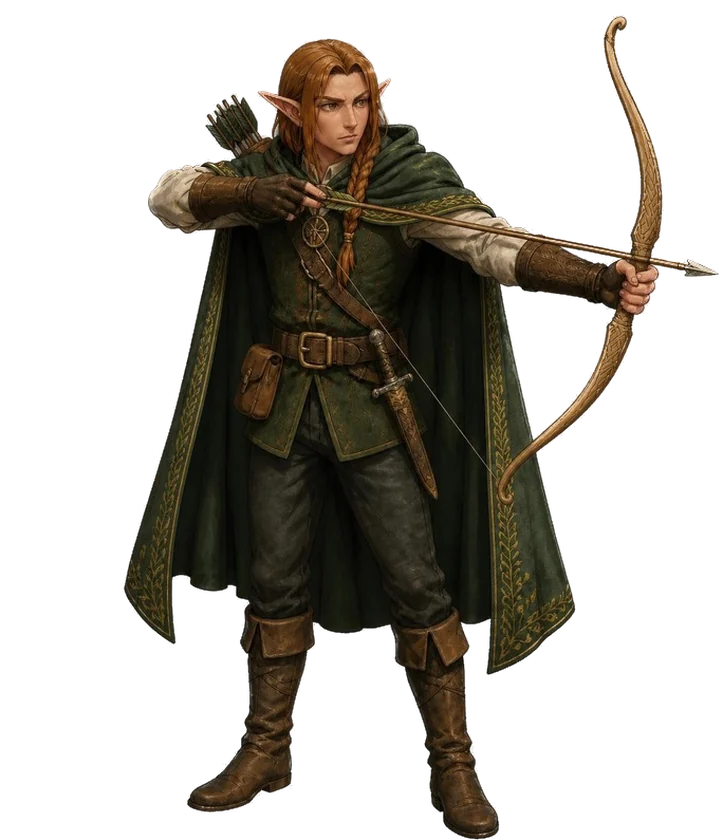
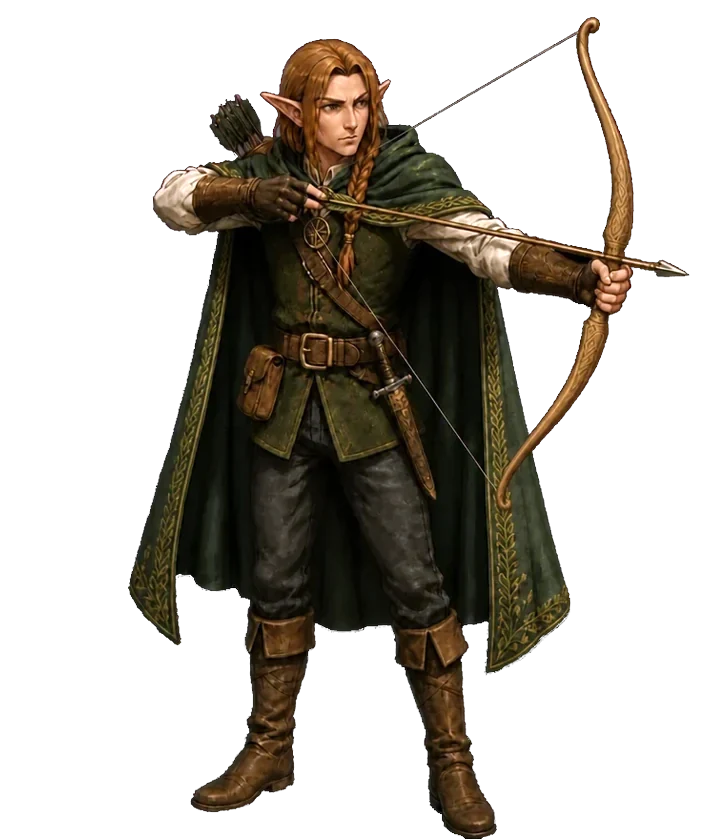
Adiciona animação para o arqueiro, ajusta a súcubo e corrige o paladino

diff --git a/src/styles/battle.css b/src/styles/battle.css
@@ -588,6 +588,18 @@
     --pose-height: 100.95%;
 }
 
+/* Arqueiro: figura de 723 x 840; poses de 731 x 1109, a partir de (-4, -269). */
+.bt-posed--arqueiro {
+    aspect-ratio: 723 / 840;
+    --pose-left: -0.55%;
+    --pose-top: -32.02%;
+    --pose-width: 101.11%;
+    --pose-height: 132.02%;
+    /* A mão do arco no quadro do disparo: de onde a flecha sai (FxLayer). */
+    --fx-hand-x: 0.873;
+    --fx-hand-y: 0.239;
+}
+
 /*
  * Golpe corpo a corpo (bt-lunge, 1,1 s): no recuo ela ergue a arma (windup)
  * e, no avanço, desce o golpe (strike), que acerta aos 63%, quando o dano
@@ -636,6 +648,100 @@
 .bt-unit--projectile .bt-posed:has(.bt-posed__pose--bolt) .bt-posed__pose--cast,
 .bt-unit--area .bt-posed:has(.bt-posed__pose--area) .bt-posed__pose--cast {
     animation: none;
+}
+
+/*
+ * Quadros extras, para quem tem uma sequência mais longa (o Arqueiro):
+ * - bolt-end: depois de lançar o projétil, o gesto termina (o lançamento fica
+ *   dos 42% aos 62% e este quadro dos 62% aos 84%);
+ * - area-start e area-charge: em área, no lugar da pose de juntar (charge), a
+ *   área tem dois quadros próprios (9–25% e 25–42%);
+ * - area-end: como o bolt-end, depois da área.
+ */
+.bt-unit--projectile .bt-posed:has(.bt-posed__pose--bolt-end) .bt-posed__pose--bolt,
+.bt-unit--area .bt-posed:has(.bt-posed__pose--area-end) .bt-posed__pose--area {
+    animation: bt-pose-release-short 0.75s linear;
+}
+
+.bt-unit--projectile .bt-posed__pose--bolt-end,
+.bt-unit--area .bt-posed__pose--area-end {
+    animation: bt-pose-recover 0.75s linear;
+}
+
+.bt-unit--area .bt-posed:has(.bt-posed__pose--area-charge) .bt-posed__pose--charge {
+    animation: none;
+}
+
+.bt-unit--area .bt-posed__pose--area-charge {
+    animation: bt-pose-charge 0.75s linear;
+}
+
+.bt-unit--area .bt-posed:has(.bt-posed__pose--area-start) .bt-posed__pose--area-charge {
+    animation: bt-pose-step-two 0.75s linear;
+}
+
+.bt-unit--area .bt-posed__pose--area-start {
+    animation: bt-pose-step-one 0.75s linear;
+}
+
+@keyframes bt-pose-release-short {
+    0%,
+    38% {
+        opacity: 0;
+    }
+    42%,
+    60% {
+        opacity: 1;
+    }
+    64%,
+    100% {
+        opacity: 0;
+    }
+}
+
+@keyframes bt-pose-recover {
+    0%,
+    60% {
+        opacity: 0;
+    }
+    64%,
+    84% {
+        opacity: 1;
+    }
+    90%,
+    100% {
+        opacity: 0;
+    }
+}
+
+@keyframes bt-pose-step-one {
+    0%,
+    6% {
+        opacity: 0;
+    }
+    9%,
+    23% {
+        opacity: 1;
+    }
+    27%,
+    100% {
+        opacity: 0;
+    }
+}
+
+@keyframes bt-pose-step-two {
+    0%,
+    23% {
+        opacity: 0;
+    }
+    27%,
+    38% {
+        opacity: 1;
+    }
+    42%,
+    100% {
+        opacity: 0;
+    }
 }
 
 @keyframes bt-pose-melee-still {
@@ -973,6 +1079,27 @@
 }
 
 /*
+ * Aliado caído que pode ser escolhido (Ressurreição, Erguer Esqueleto): a
+ * figura volta como um fantasma acinzentado, para dar onde clicar, e ganha
+ * cor ao passar o mouse.
+ */
+.bt-unit.bt-unit--down.bt-unit--target .bt-unit__sprite {
+    opacity: 0.45;
+    filter: grayscale(1) brightness(1.15) drop-shadow(0 0 6px var(--bt-good));
+    animation: bt-beckon 1.3s ease-in-out infinite;
+}
+
+.bt-unit.bt-unit--down.bt-unit--target:hover .bt-unit__sprite,
+.bt-unit.bt-unit--down.bt-unit--target:focus-visible .bt-unit__sprite {
+    opacity: 0.85;
+    filter: grayscale(0.3) drop-shadow(0 0 3px #fff) drop-shadow(0 0 12px var(--bt-gold-bright));
+}
+
+.bt-unit--down.bt-unit--target .bt-unit__plate {
+    opacity: 1;
+}
+
+/*
  * Prévia no alvo: com uma habilidade escolhida, parar o mouse (ou o foco do
  * teclado) num alvo possível mostra em cima da placa quanto ela tira dele
  * (em vermelho) ou cura (em verde), já com a defesa e o escudo, e também o
@@ -1210,6 +1337,18 @@
 /* Magia, projétil e suporte: conjura no lugar, com um círculo no chão. */
 .bt-unit.bt-unit--casting .bt-unit__sprite {
     animation: bt-cast 0.75s ease-in-out;
+}
+
+/* O Arqueiro atira sem brilhar: só o leve impulso, sem o clarão da magia. */
+.bt-unit.bt-unit--casting .bt-unit__sprite.bt-posed--arqueiro {
+    animation-name: bt-cast-plain;
+}
+
+@keyframes bt-cast-plain {
+    30%,
+    62% {
+        transform: translateY(-1%);
+    }
 }
 
 .bt-unit--casting .bt-unit__stage::after {

diff --git a/src/types/battle.ts b/src/types/battle.ts
@@ -15,7 +15,7 @@ export interface Stats {
     critDamage: number;
 }
 
-/** 'corpse' é o cadáver de um aliado (unidade derrotada do próprio time que ainda não foi erguida): quem escolhe é a API. */
+/** 'corpse' é o cadáver de um aliado (unidade derrotada do próprio time que ainda não foi erguida): o jogador escolhe qual, como num alvo único. */
 export type TargetType = 'single-enemy' | 'all-enemies' | 'single-ally' | 'all-allies' | 'self' | 'corpse';
 
 export type StatusKind =
@@ -50,7 +50,9 @@ export type StatusKind =
     /** Torpor: quando a duração acaba, a unidade adormece. */
     | 'drowsy'
     /** Maldição de quem aplicou (`sourceId`): dano por turno, e os golpes de alvo único dela não miram nele enquanto houver outro alvo. */
-    | 'curse';
+    | 'curse'
+    /** Contagem do sono, na própria Súcubo: `turns` é quantas vezes dela faltam; no começo da vez em que ela chega ao fim, todos os inimigos adormecem. Nada a remove. */
+    | 'countdown';
 
 export interface StatusEffect {
     kind: StatusKind;
@@ -146,6 +148,8 @@ export type PassiveEffect =
     | { type: 'stealth_each_turn' }
     /** No começo da batalha (só no turno 1), aplica os efeitos em todos os inimigos. */
     | { type: 'battle_start'; target: 'all-enemies'; effects: SkillEffect[] }
+    /** Começa a batalha com uma contagem de `turns` na unidade; no começo da vez dela em que a contagem acaba, aplica os efeitos em todos os inimigos. */
+    | { type: 'countdown'; turns: number; target: 'all-enemies'; effects: SkillEffect[] }
     | { type: 'turn_start'; target: 'all-allies' | 'fastest-enemy' | 'lowest-ally'; effects: SkillEffect[] }
     /** Acumula cargas: cada efeito tirado de um inimigo soma `amount` ao dano dos golpes. */
     | { type: 'damage_per_dispel'; amount: number; max?: number }

diff --git a/src/components/battle/StatusBadges.tsx b/src/components/battle/StatusBadges.tsx
@@ -81,6 +81,14 @@ const ICONS: Partial<Record<StatusKind, ReactNode>> = {
             <path d='M6 16.5 L5 19.5 M12 19 L12 22 M18 16.5 L19 19.5' fill='none' strokeWidth={1.8} strokeLinecap='round' />
         </>
     ),
+    // Contagem do sono: uma ampulheta lilás.
+    countdown: (
+        <>
+            <path d='M6 2.5 L18 2.5 M6 21.5 L18 21.5' fill='none' strokeWidth={2.2} strokeLinecap='round' />
+            <path d='M7 3 C7 8 10.5 10 12 12 C13.5 10 17 8 17 3 Z M7 21 C7 16 10.5 14 12 12 C13.5 14 17 16 17 21 Z' fill='#cfc7e8' />
+            <path d='M9 20.5 C9.5 18 11 16.6 12 16 C13 16.6 14.5 18 15 20.5 Z' fill='#9db4ff' stroke='none' />
+        </>
+    ),
     // Maldição: um selo de chifres sobre um círculo roxo.
     curse: (
         <>
@@ -104,7 +112,7 @@ const ARROWS: Partial<Record<StatusKind, { stat: 'atk' | 'def' | 'speed'; up: bo
 };
 
 /** Status que ajudam quem os carrega. Os outros atrapalham. */
-const HELPFUL: StatusKind[] = ['shield', 'atk_up', 'def_up', 'speed_up', 'passive_up', 'taunt', 'form', 'stealth', 'counter', 'guard'];
+const HELPFUL: StatusKind[] = ['shield', 'atk_up', 'def_up', 'speed_up', 'passive_up', 'taunt', 'form', 'stealth', 'counter', 'guard', 'countdown'];
 
 /**
  * Quanto um status de dano por turno vai causar na próxima vez. Num status

diff --git a/src/battle/fx.ts b/src/battle/fx.ts
@@ -62,14 +62,15 @@ export function skillFxOf(event: Extract<BattleEvent, { type: 'skill_used' | 'co
  * Uma passiva que age sozinha é animada como uma habilidade. A de começo de
  * vez: a cura em área como um feitiço, o golpe num inimigo como projétil ou
  * investida. A de começo de batalha (a nuvem de esporos do Guardião): como um
- * golpe em área no time inimigo. As outras passivas mudam um golpe que já
+ * golpe em área no time inimigo, assim como a contagem do sono da Súcubo
+ * quando chega ao fim. As outras passivas mudam um golpe que já
  * está sendo animado: para elas não há nada novo a desenhar, e a função
  * devolve null.
  */
 export function passiveFxOf(event: Extract<BattleEvent, { type: 'passive_triggered' }>, units: Map<string, BattleUnit>, id: number): SkillFx | null {
     const passive = findPassive(units.get(event.unitId), event.passiveId);
 
-    if (!passive || (passive.effect.type !== 'turn_start' && passive.effect.type !== 'battle_start') || event.targetIds.length === 0) {
+    if (!passive || (passive.effect.type !== 'turn_start' && passive.effect.type !== 'battle_start' && passive.effect.type !== 'countdown') || event.targetIds.length === 0) {
         return null;
     }
 

diff --git a/src/components/battle/artFiles.ts b/src/components/battle/artFiles.ts
@@ -13,7 +13,8 @@
  * código. Personagem sem arquivo aparece com o desenho antigo, de reserva.
  *
  * Poses de ação: além do <id>.webp, o personagem pode ter os desenhos
- * <id>-pose-<momento>.webp (windup, strike, charge, cast, bolt, area), trocados durante a
+ * <id>-pose-<momento>.webp (windup, strike, charge, cast, bolt, area e os quadros extras
+ * bolt-end, area-start, area-charge, area-end), trocados durante a
  * animação em battle.css. Ver getPoseFrames.
  */
 export type ArtKind = 'figure' | 'face' | 'card';
@@ -41,9 +42,9 @@ const RENAMED: Record<string, string> = {
     espinho: 'guardiao',
 };
 
-export type PoseName = 'windup' | 'strike' | 'charge' | 'cast' | 'bolt' | 'area';
+export type PoseName = 'windup' | 'strike' | 'charge' | 'cast' | 'bolt' | 'bolt-end' | 'area-start' | 'area-charge' | 'area' | 'area-end';
 
-const POSES: PoseName[] = ['windup', 'strike', 'charge', 'cast', 'bolt', 'area'];
+const POSES: PoseName[] = ['windup', 'strike', 'charge', 'cast', 'bolt', 'bolt-end', 'area-start', 'area-charge', 'area', 'area-end'];
 
 /**
  * Os desenhos de cada momento da ação (preparar e acertar o golpe; juntar,

diff --git a/src/pages/BattlePage.tsx b/src/pages/BattlePage.tsx
@@ -136,12 +136,13 @@ function BattleScreen({ battleId, opening, isReplay = false }: { battleId: strin
         hint = t('battle.waitingOpponent');
     } else if (!canAct || !selected) {
         hint = t('battle.resolving');
-    } else if (selected.requiresTarget) {
-        hint = t('battle.chooseTarget', { skill: selected.skill.name });
     } else if (selected.skill.target === 'corpse') {
+        // Escolher qual aliado caído trazer de volta (ou erguer como esqueleto).
         const revives = selected.skill.effects.some((effect) => effect.type === 'revive');
 
-        hint = t(revives ? 'battle.revivesCorpse' : 'battle.raisesCorpse', { skill: selected.skill.name, unit: state.units.find((unit) => unit.id === selected.targetIds[0])?.name });
+        hint = t(revives ? 'battle.chooseRevive' : 'battle.chooseRaise', { skill: selected.skill.name });
+    } else if (selected.requiresTarget) {
+        hint = t('battle.chooseTarget', { skill: selected.skill.name });
     } else {
         hint = t('battle.hitsAll', { skill: selected.skill.name });
     }

diff --git a/src/assets/characters/README.md b/src/assets/characters/README.md
@@ -33,7 +33,7 @@ Cuidados para a figura combinar com as outras:
 ## Poses de ação
 
 Além da figura parada, um personagem pode ter desenhos de cada momento da
-ação, trocados durante a animação (hoje, a Inquisidora, o Piromante, o Sacerdote, o Vampiro, o Ladino, o Cavaleiro, a Súcubo e a Harpia):
+ação, trocados durante a animação (hoje, a Inquisidora, o Piromante, o Sacerdote, o Vampiro, o Ladino, o Cavaleiro, a Súcubo, a Harpia e o Arqueiro):
 
 | Arquivo | Quando aparece |
 | --- | --- |
@@ -43,6 +43,9 @@ ação, trocados durante a animação (hoje, a Inquisidora, o Piromante, o Sacer
 | `<id>-pose-cast.webp` | Habilidade à distância, em área ou de suporte: lançando. |
 | `<id>-pose-bolt.webp` | Projétil: no lugar da `cast` (opcional). |
 | `<id>-pose-area.webp` | Habilidade em área: no lugar da `cast` (opcional). |
+| `<id>-pose-bolt-end.webp` | Projétil: o fim do gesto, depois do disparo (opcional). |
+| `<id>-pose-area-start.webp`, `<id>-pose-area-charge.webp` | Área: dois quadros de preparo, no lugar da `charge` (opcionais). |
+| `<id>-pose-area-end.webp` | Área: o fim do gesto, depois do disparo (opcional). |
 
 O golpe usa `windup` e `strike` juntas. Na magia, com `charge` a pose de
 juntar aparece primeiro e a de lançar (`cast`, ou `bolt` no projétil e `area` em área) depois;
